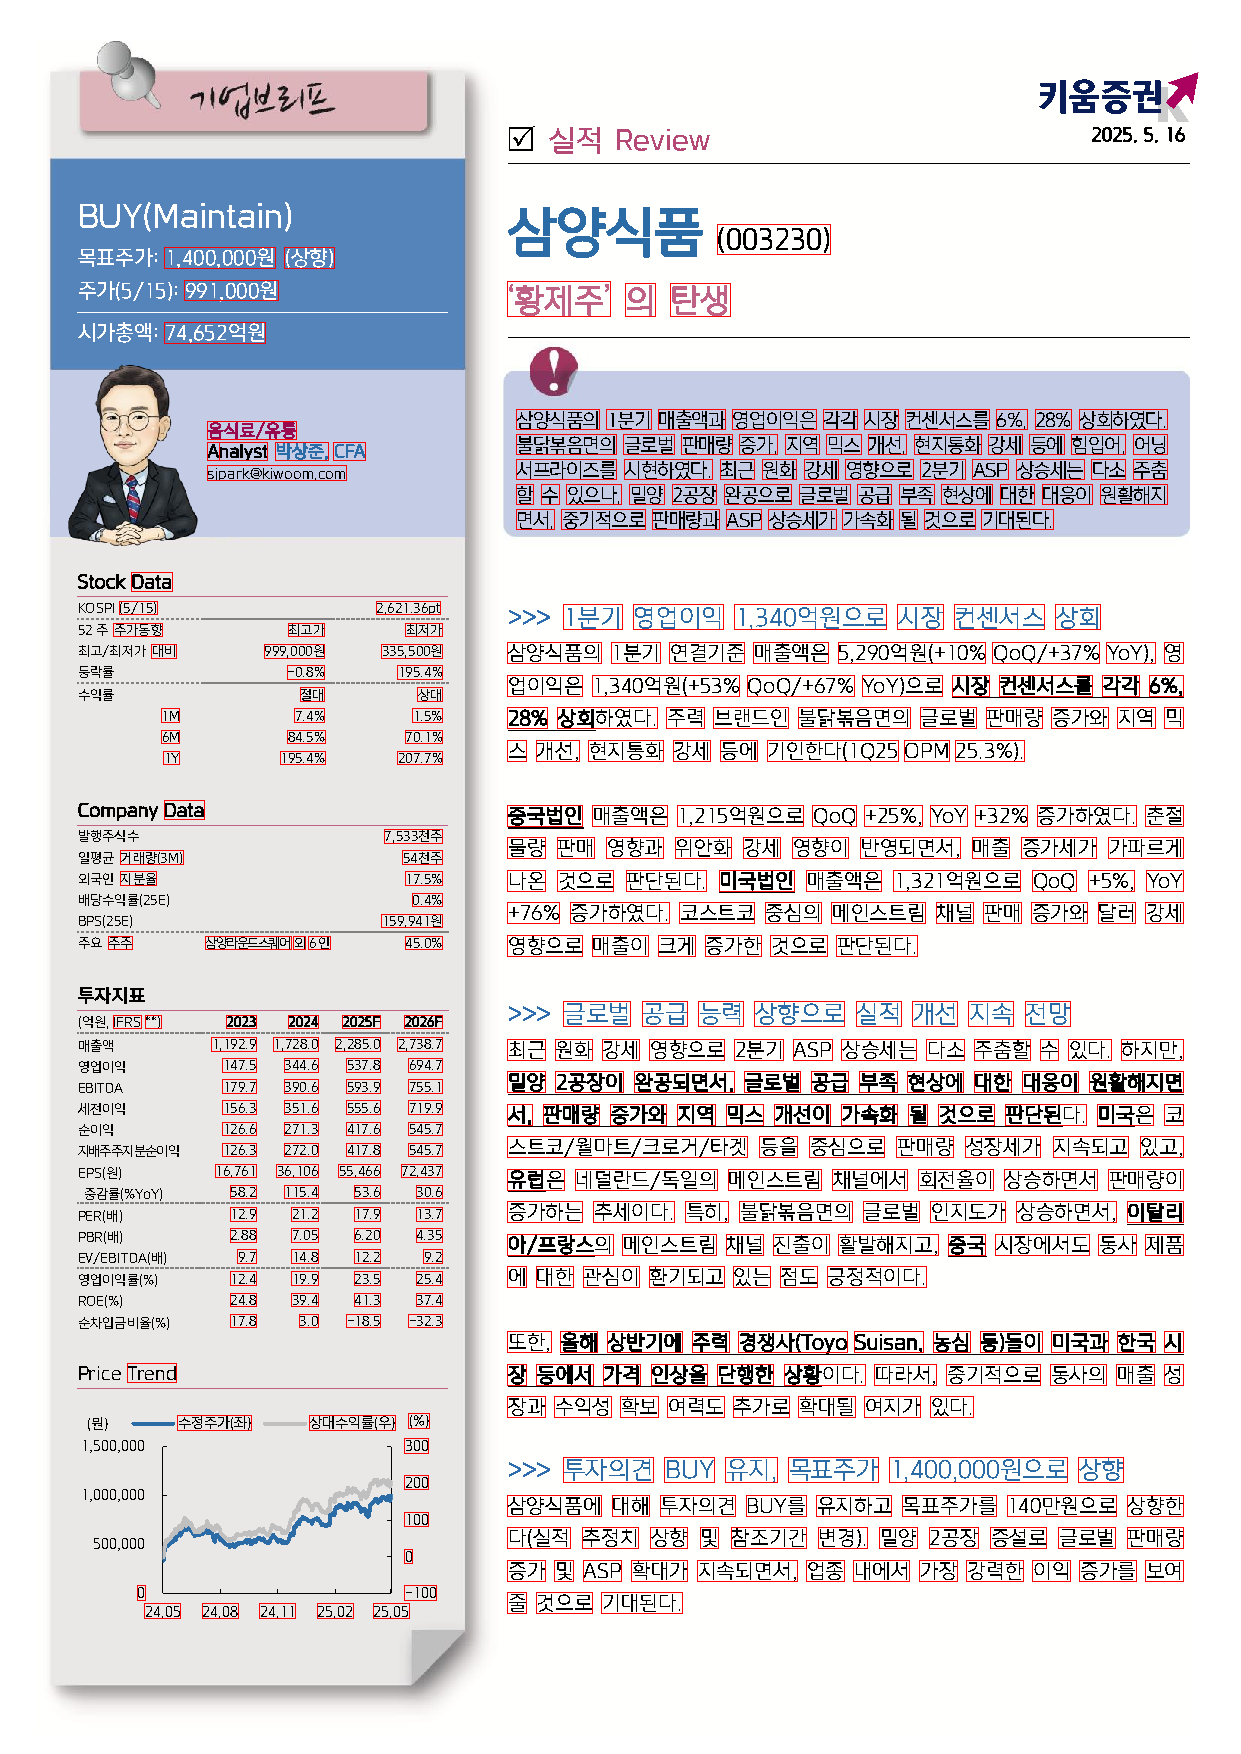
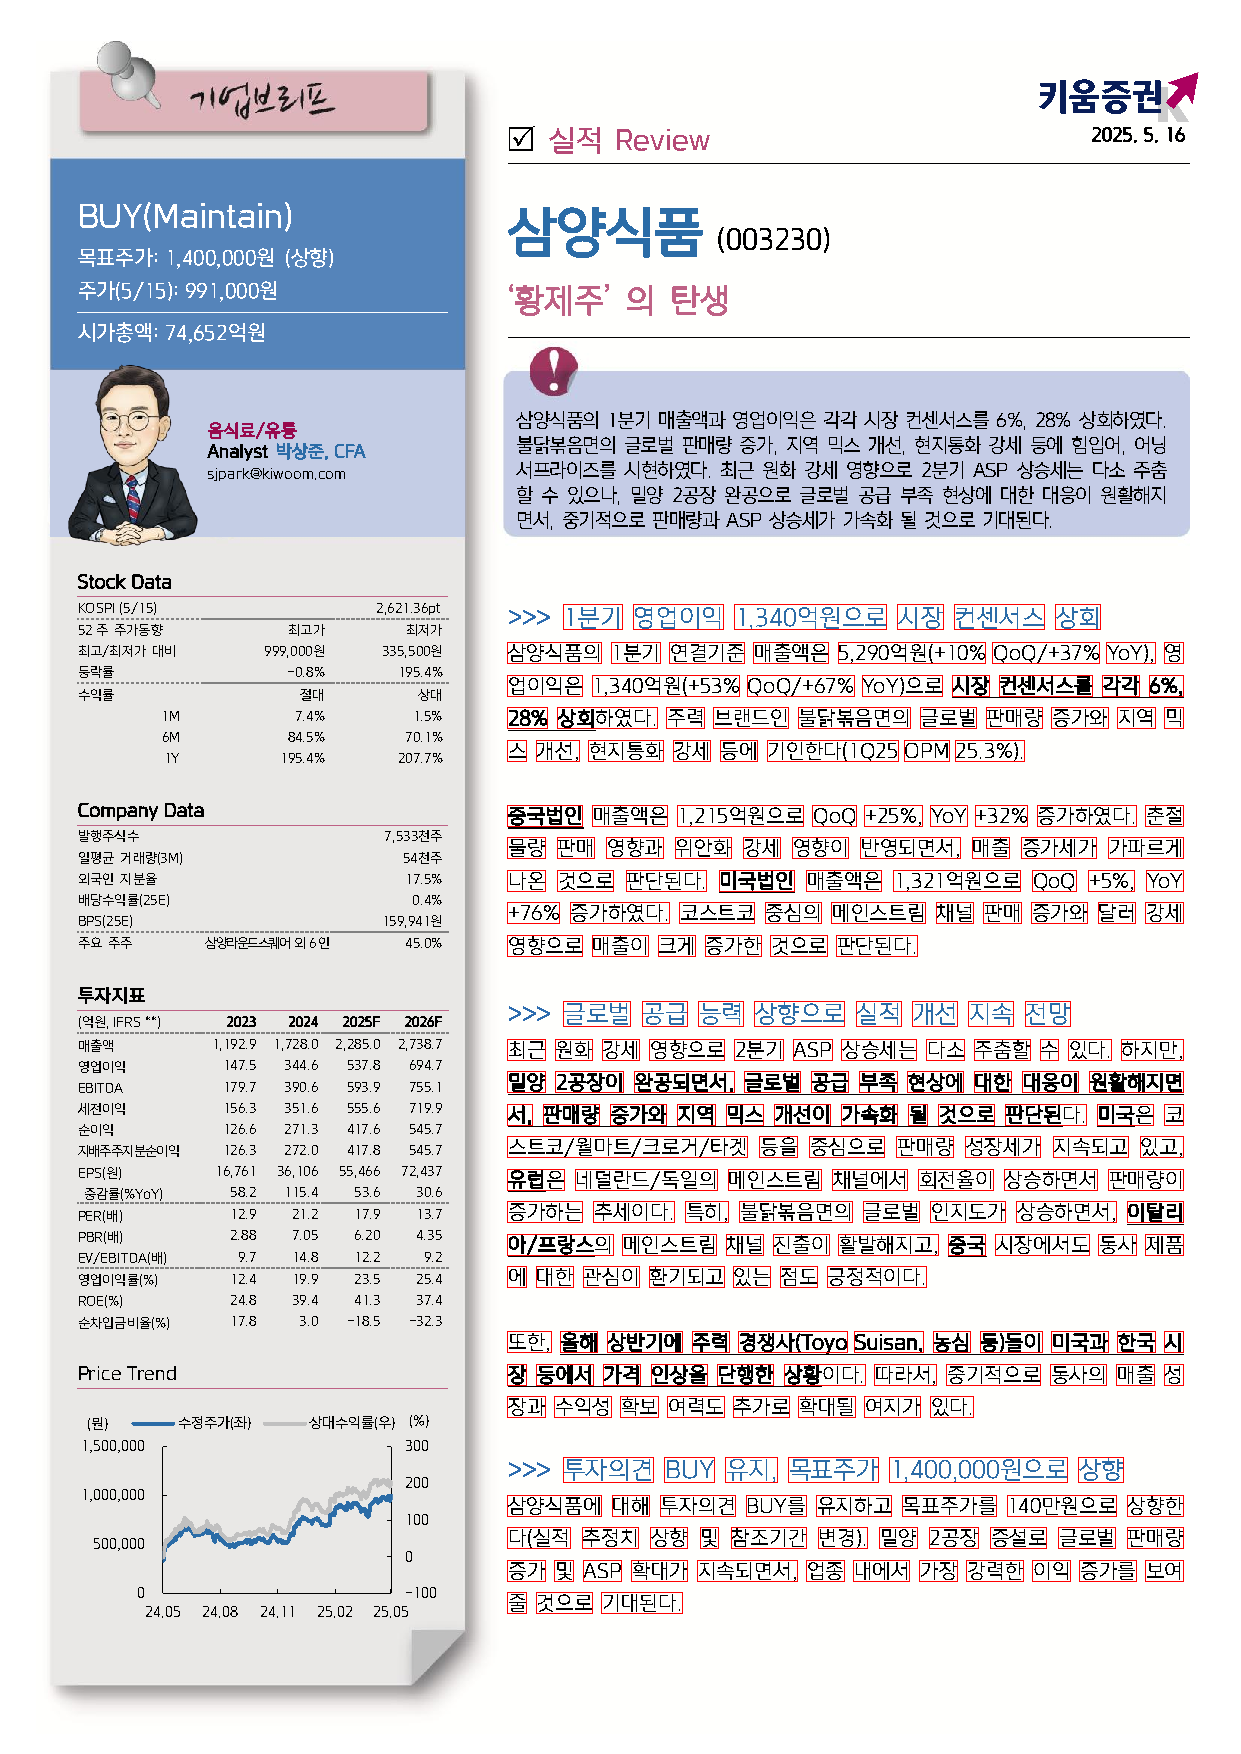
FEAT : Test the main content parsing within specific coordinate

diff --git a/pyplumber_test.py b/pyplumber_test.py
@@ -3,8 +3,8 @@ import os
 from PIL import Image, ImageDraw
 
 # 설정: 추출할 좌표 범위 (PDF 기준 좌표계, 단위: pt)
-XMIN, YMIN = 50, 100     # 좌상단
-XMAX, YMAX = 1000, 800    # 우하단
+XMIN, YMIN = 210, 280     # 좌상단
+XMAX, YMAX = 800, 800    # 우하단
 
 # 실행 예시
 current_dir = os.path.dirname(os.path.abspath(__file__))
